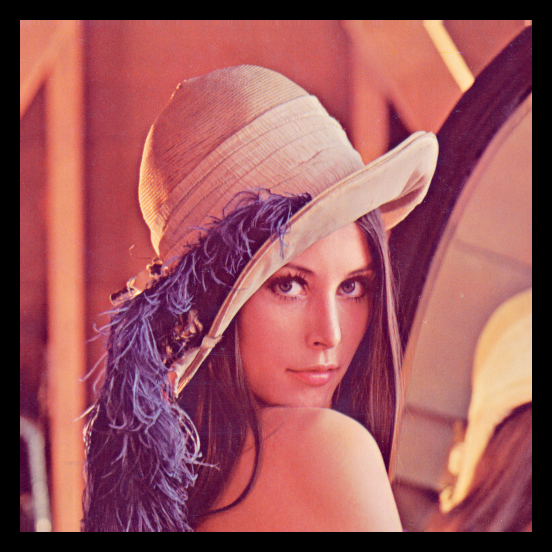
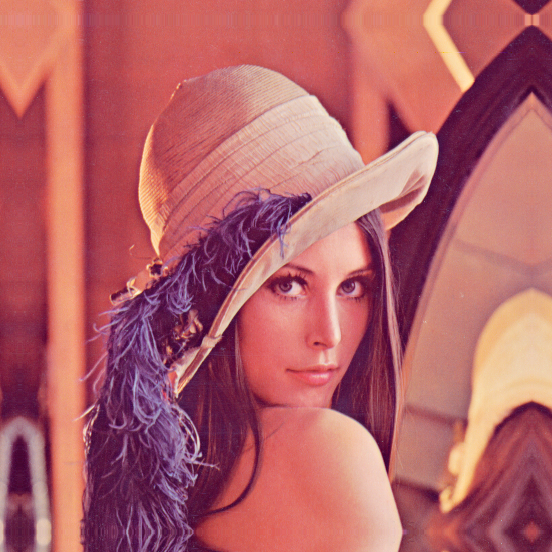
fixed assignment 2

Changed region(s): [[0.0, 0.0, 1.0, 1.0]]

diff --git a/assignment_2/main.py b/assignment_2/main.py
@@ -58,10 +58,8 @@ def main(img_path,function):
         cv.waitKey(0)
         cv.destroyWindow("lena rotated 180 degrees")
 
-
-
 def padding(image, border_width):
-    img_with_border = cv.copyMakeBorder(image, border_width, border_width, border_width, border_width, cv.BORDER_CONSTANT)
+    img_with_border = cv.copyMakeBorder(image, border_width, border_width, border_width, border_width, cv.BORDER_REFLECT)
     cv.imwrite("lena_padded.png", img_with_border)
     return img_with_border
 
@@ -95,30 +93,25 @@ def hsv(image):
     cv.imwrite("lena_hsv.png", hsv_image)
     return hsv_image
 
+
 def hue_shifted(image, emptyPictureArray, hue):
+    height, width, channels = image.shape
 
-    hsv_image = cv.cvtColor(image, cv.COLOR_RGB2HSV)
-
-    height = hsv_image.shape[0]
-    width = hsv_image.shape[1]
-
-    for y in range(height):
-        for x in range(width):
-            hue_now = hsv_image[y, x, 0]
-
-            new_hue = (hue_now + hue) % 180
-
-            hsv_image[y, x, 0] = new_hue
-
-    shifted_img = cv.cvtColor(hsv_image, cv.COLOR_HSV2RGB)
-
-    height, width, channels = shifted_img.shape
     for y in range(height):
         for x in range(width):
             for c in range(channels):
-                emptyPictureArray[y, x, c] = shifted_img[y, x, c]
-    cv.imwrite("shifted_lena.png", emptyPictureArray)
+                current_value = int(image[y, x, c])
+                new_value = current_value + hue
 
+                if new_value > 255:
+                    new_value = 255
+                elif new_value < 0:
+                    new_value = 0
+                else:
+                    new_value = new_value
+                emptyPictureArray[y, x, c] = np.uint8(new_value)
+
+    cv.imwrite("shifted_lena.png", emptyPictureArray)
     return emptyPictureArray
 
 def smoothing(image):
@@ -138,4 +131,4 @@ def rotation(image, rotation_angle):
 
 
 
-main("lena-1.png", "rotation_180")
+main("lena-1.png", "hue_shifted")
